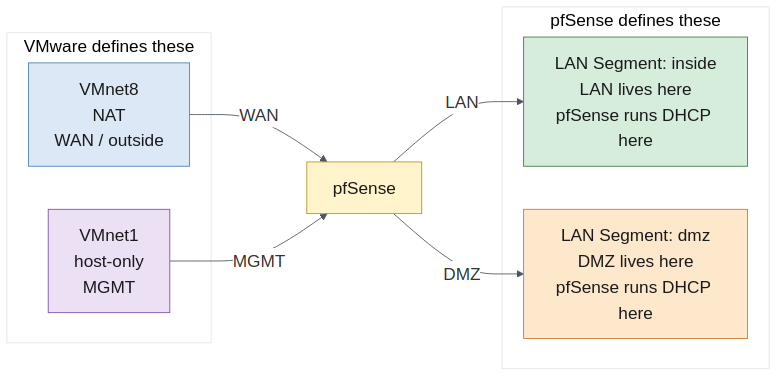
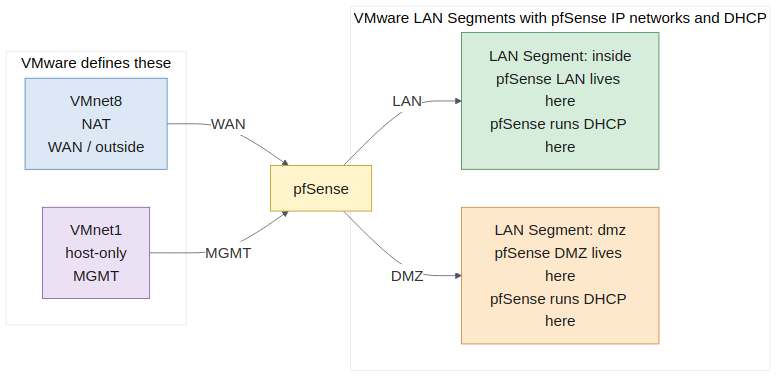
Tighten pfSense lab setup and boundary wording

diff --git a/labs/210-pfsense-wan-lan-dmz-tour/01_overview-and-vmware-prep.md b/labs/210-pfsense-wan-lan-dmz-tour/01_overview-and-vmware-prep.md
@@ -58,7 +58,7 @@ If you later lose track of addresses or public-vs-internal service behavior, the
 
 This is the point that has confused the most students.
 
-![Boundary diagram showing VMware defining VMnet8 NAT for WAN and VMnet1 host-only for MGMT, while pfSense defines the inside and dmz LAN Segments and runs DHCP there.](assets/images/pfsense-vmware-boundary.png)
+![Boundary diagram showing VMware defining VMnet8 NAT for WAN, VMnet1 host-only for MGMT, and the inside and dmz LAN Segments, while pfSense assigns IP networks and runs DHCP on those internal segments.](assets/images/pfsense-vmware-boundary.png)
 
 Diagram source: [Mermaid](assets/images/pfsense-vmware-boundary.mmd)
 
@@ -203,7 +203,8 @@ Set the hostname by editing both `/etc/hostname` and `/etc/hosts`.
 
 ```bash
 printf 'dmz\n' | sudo tee /etc/hostname >/dev/null
-printf '127.0.0.1 localhost\n127.0.1.1 dmz\n' | sudo tee /etc/hosts >/dev/null
+sudo sed -i '/^127\\.0\\.1\\.1[[:space:]]/d' /etc/hosts
+printf '127.0.1.1 dmz\n' | sudo tee -a /etc/hosts >/dev/null
 ```
 
 Note: After editing `/etc/hostname` and `/etc/hosts`, reboot the VM so `sudo` does not show hostname/name-resolution warnings.
@@ -288,7 +289,8 @@ On the `inside` clone:
 
 ```bash
 printf 'inside\n' | sudo tee /etc/hostname >/dev/null
-printf '127.0.0.1 localhost\n127.0.1.1 inside\n' | sudo tee /etc/hosts >/dev/null
+sudo sed -i '/^127\\.0\\.1\\.1[[:space:]]/d' /etc/hosts
+printf '127.0.1.1 inside\n' | sudo tee -a /etc/hosts >/dev/null
 
 cat <<'EOF' | sudo tee /var/www/html/index.html >/dev/null
 I am inside
@@ -299,7 +301,8 @@ On the `outside` clone:
 
 ```bash
 printf 'outside\n' | sudo tee /etc/hostname >/dev/null
-printf '127.0.0.1 localhost\n127.0.1.1 outside\n' | sudo tee /etc/hosts >/dev/null
+sudo sed -i '/^127\\.0\\.1\\.1[[:space:]]/d' /etc/hosts
+printf '127.0.1.1 outside\n' | sudo tee -a /etc/hosts >/dev/null
 
 cat <<'EOF' | sudo tee /var/www/html/index.html >/dev/null
 I am outside
